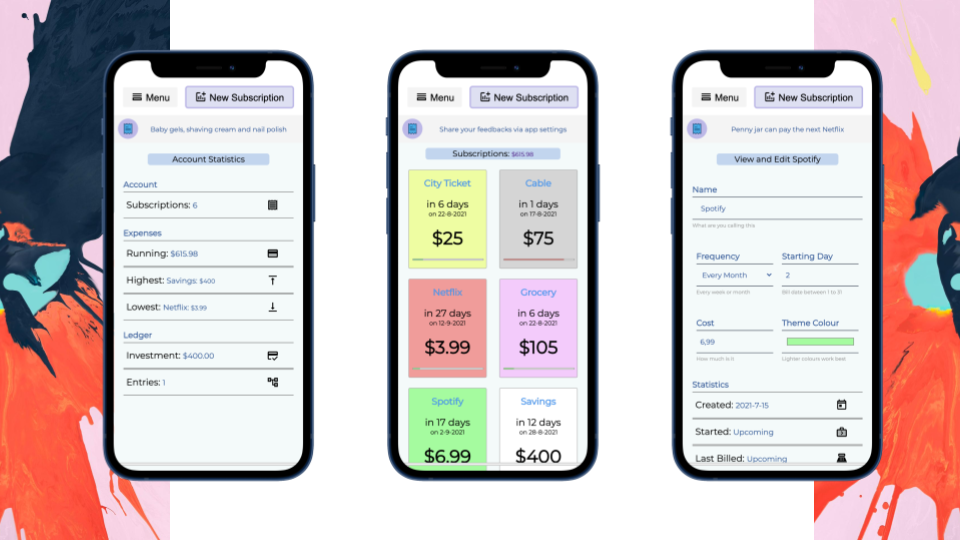
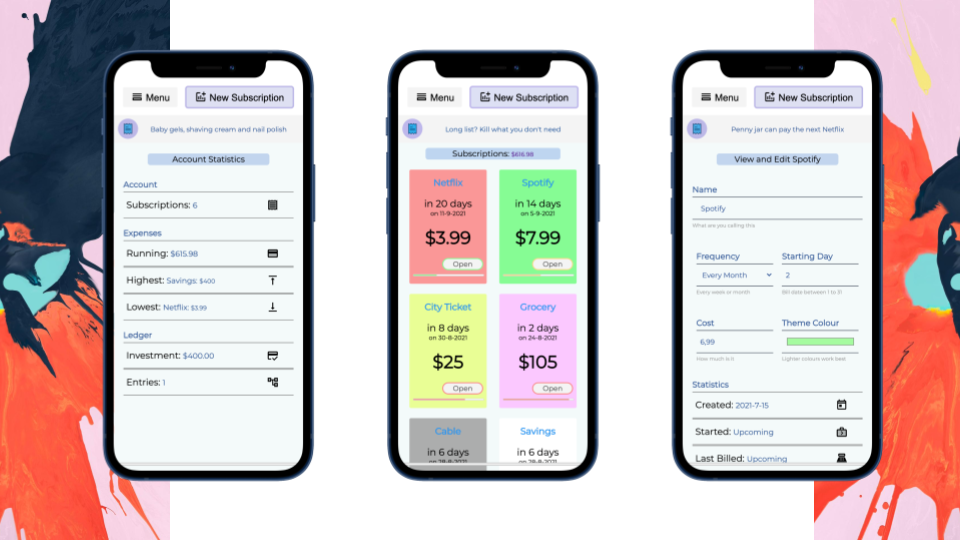
test ready, ui changes

Changed region(s): [[0.4062, 0.2963, 0.625, 0.8889], [0.4688, 0.237, 0.5312, 0.2667], [0.5625, 0.237, 0.5938, 0.2667]]

diff --git a/public/css/style.css b/public/css/style.css
@@ -143,16 +143,16 @@ select {
   font-weight: bold;
   text-shadow: 0px 0px #000000;
 }
-.openSub{
+.openSub {
   font-size: 14px;
-  color: #000000;
-  width: 48%;
-  background-color: #dcdff4;
+  color: #4d4d4d;
+  width: 58%;
+  background-color: #f4f4f4;
   border-radius: 20px;
-  border: 2px solid#bdb6ea;
+  border: 2px solid;
   outline: none;
   float: right;
-  margin-top: 10px;
+  font-family: "Montserrat", sans-serif;
 }
 .subsHolder {
   height: auto;
@@ -327,7 +327,8 @@ select {
   height: 2px;
   border-radius: 5px;
   background-color: #ffffff;
-  border: 1px solid#8b8b8b;
+  border: 1px solid#d3d3d3;
+  margin-top: 13px;
 }
 #progressBar {
   background-color: #9888fa;
